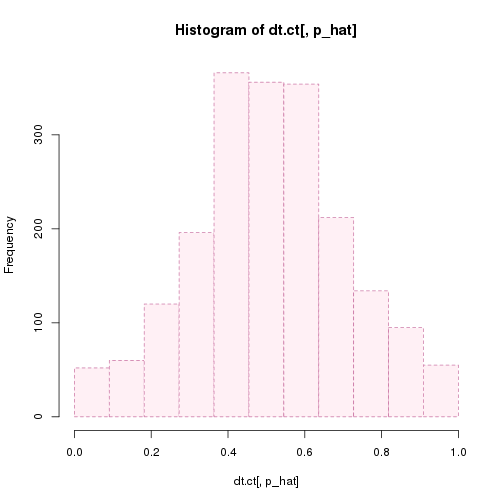
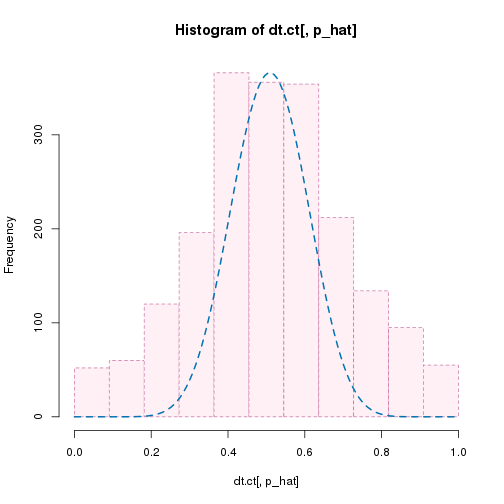
update

diff --git a/vignettes/shape-atac.md b/vignettes/shape-atac.md
@@ -18,6 +18,10 @@ purposes.
 library(parallel)
 library(npbin)
 library(data.table)
+library(VGAM)
+#> Loading required package: methods
+#> Loading required package: stats4
+#> Loading required package: splines
 
 minimum_coverage <- 5 # minimum total coverage allowed
 n_cores <- detectCores() # the number of cores to be used, can ONLY be 1 if run on Windows.
@@ -137,6 +141,25 @@ hist(
   col = "lavenderblush",
   border = pal[["pink"]],
   lty = 2
+)
+par(new = TRUE)
+x <- 1:128 / 129
+plot(
+  x,
+  dbeta(
+    x,
+    null_model_estimate[["coef.null"]][["shape1"]],
+    null_model_estimate[["coef.null"]][["shape2"]]
+  ),
+  type = "l",
+  lty = 2,
+  lwd = 2,
+  col = pal[["blue"]],
+  bty = "n",
+  ylab = "",
+  xlab = "",
+  yaxt = "n",
+  xaxt = "n"
 )
 ```
 
